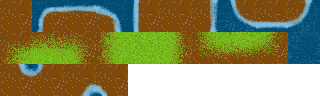
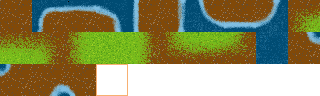
Collision tile map

diff --git a/src/Game.cpp b/src/Game.cpp
@@ -12,20 +12,17 @@ int Game::height = 600;
 
 Manager enitityManager;
 
-auto &playerEntity(enitityManager.addEntity());
+Map map("assets/terrains.png", 32, 2);
 
 SDL_Renderer *Game::renderer = nullptr;
 SDL_Event Game::event;
 bool Game::isRunning = false;
 SDL_Rect Game::camera = {0, 0, Game::width, Game::height};
 
-std::vector<ColliderComponent *> Game::colliders;
-
-enum GroupLabel : std::size_t { Map, Player, Enemy, Collision };
-
-auto &tiles(enitityManager.getGroup(GroupLabel::Map));
-auto &players(enitityManager.getGroup(GroupLabel::Player));
-auto &enemies(enitityManager.getGroup(GroupLabel::Enemy));
+auto &playerEntity(enitityManager.addEntity());
+auto &tiles(enitityManager.getGroup(GroupLabel::MapGroup));
+auto &players(enitityManager.getGroup(GroupLabel::PlayerGroup));
+auto &colliders(enitityManager.getGroup(GroupLabel::CollisionGroup));
 
 const std::string terrainTilesFile("assets/terrains.png");
 
@@ -67,33 +64,45 @@ void Game::init(const char *title, int xpos, int ypos, int width, int height,
 
     // init game entities
 
-    Map::LoadMap("assets/lvl1_25x25.map", 25, 25);
+    map.LoadMap("assets/lvl2_25x25.map", 25, 25);
 
     playerEntity.addComponent<TransformComponent>(200, 200, 2);
     playerEntity.addComponent<SpriteComponent>("assets/player_animations.png",
                                                true);
     playerEntity.addComponent<KeyboardController>();
     playerEntity.addComponent<ColliderComponent>("player");
-    playerEntity.addGroup(GroupLabel::Player);
+    playerEntity.addGroup(GroupLabel::PlayerGroup);
+    playerEntity.addGroup(GroupLabel::CollisionGroup);
   }
 }
 
 void Game::update() {
+  auto prevPlayerPosition =
+      playerEntity.getComponent<TransformComponent>().position;
+
   enitityManager.refresh();
   enitityManager.update();
 
   auto &playerTransform = playerEntity.getComponent<TransformComponent>();
-  Vector2d pPos = playerTransform.position;
+  auto &playerCollider = playerEntity.getComponent<ColliderComponent>();
 
+  SDL_Rect tmpRect;
+  for (auto &entity : colliders) {
+    auto collider = entity->getComponent<ColliderComponent>();
+    if (collider.tag != playerCollider.tag &&
+        Collision::AABB(playerCollider, collider)) {
+      playerTransform.position = prevPlayerPosition;
+    }
+  }
+
+  Vector2d pPos = playerTransform.position;
   camera.x = pPos.x - camera.w / 2 + playerTransform.scaledWidth() / 2;
   camera.y = pPos.y - camera.h / 2 + playerTransform.scaledHeight() / 2;
 
   if (camera.x < 0) camera.x = 0;
   if (camera.y < 0) camera.y = 0;
-
-  if (camera.x > (Map::width - camera.w)) camera.x = Map::width - camera.w;
-  if (camera.y > (Map::height - camera.h)) camera.y = Map::height - camera.h;
-
+  if (camera.x > (map.width - camera.w)) camera.x = map.width - camera.w;
+  if (camera.y > (map.height - camera.h)) camera.y = map.height - camera.h;
 }
 
 void Game::handleEvents() { SDL_PollEvent(&event); }
@@ -106,7 +115,7 @@ void Game::render() {
 
   for (auto &tile : tiles) tile->draw();
   for (auto &player : players) player->draw();
-  for (auto &enemy : enemies) enemy->draw();
+  for (auto &collider : colliders) collider->draw();
 
   /// ------
   SDL_RenderPresent(renderer);
@@ -118,12 +127,4 @@ void Game::clean() {
   SDL_Quit();
 
   std::cout << "Game cleaned succesfully." << std::endl;
-}
-
-void Game::AddTile(int srcX, int srcY, int xpos, int ypos, int srcW, int srcH,
-                   int destW, int destH) {
-  auto &tile(enitityManager.addEntity());
-  tile.addComponent<TileComponent>(srcX, srcY, xpos, ypos, srcW, srcH, destW,
-                                   destH, terrainTilesFile);
-  tile.addGroup(GroupLabel::Map);
 }

diff --git a/src/Map.cpp b/src/Map.cpp
@@ -3,46 +3,71 @@
 #include <fstream>
 #include <iostream>
 
+#include "ECS/Components.h"
+#include "ECS/ESC.h"
 #include "game/Game.h"
 
-int Map::width = 0;
-int Map::height = 0;
+extern Manager enitityManager;
 
-constexpr int TILE_SRC_SIZE = 32;
-constexpr int TILE_DEST_SIZE = 128;
-
-Map::Map() {}
+Map::Map(std::string mapFile, int tSize, int tScale)
+    : mapFilePath(mapFile), tileScale(tScale), tileSize(tSize) {}
 
 Map::~Map() {}
 
 void Map::LoadMap(std::string path, int sizeX, int sizeY) {
-  char tile;
+  char c;
   std::fstream mapFile;
   mapFile.open(path);
 
   int srcX, srcY;
 
-  Map::width = sizeX * TILE_DEST_SIZE;
-  Map::height = sizeY * TILE_DEST_SIZE;
+  width = sizeX * tileSize * tileScale;
+  height = sizeY * tileSize * tileScale;
 
   for (int y = 0; y < sizeY; y++) {
     for (int x = 0; x < sizeX; x++) {
-      mapFile.get(tile);
-      srcY = srcX = atoi(&tile) * TILE_SRC_SIZE;
+      mapFile.get(c);
+      srcY = srcX = atoi(&c) * tileSize;
 
-      mapFile.get(tile);
-      if (tile != ',') {
-        srcX = atoi(&tile) * TILE_SRC_SIZE;
+      mapFile.get(c);
+      if (c != ',') {
+        srcX = atoi(&c) * tileSize;
         mapFile.ignore();
       } else {
         srcY = 0;
       }
-      Game::AddTile(srcX, srcY, x * TILE_DEST_SIZE, y * TILE_DEST_SIZE,
-                    TILE_SRC_SIZE, TILE_SRC_SIZE, TILE_DEST_SIZE,
-                    TILE_DEST_SIZE);  // need to link tile size and position
+      AddTile(srcX, srcY, x * tileSize * tileScale, y * tileSize * tileScale,
+              tileSize, tileScale);  // need to link tile size and position
     }
     mapFile.ignore();
   }
 
+  mapFile.ignore();
+
+  for (int y = 0; y < sizeY; y++) {
+    for (int x = 0; x < sizeX; x++) {
+      mapFile.get(c);
+      // std::cout << c << ' ' << std::endl;
+      if (c == '1') {
+        auto& collider(enitityManager.addEntity());
+        collider.addComponent<ColliderComponent>(
+            "terrain", x * tileSize * tileScale, y * tileSize * tileScale,
+            tileSize * tileScale);
+        collider.addGroup(GroupLabel::CollisionGroup);
+      }
+      mapFile.ignore();
+    }
+    // std::cout << std::endl;
+    mapFile.ignore();
+  }
+
   mapFile.close();
+}
+
+void Map::AddTile(int srcX, int srcY, int xpos, int ypos, int tSize,
+                  int tScale) {
+  auto& tile(enitityManager.addEntity());
+  tile.addComponent<TileComponent>(srcX, srcY, xpos, ypos, tSize, tScale,
+                                   mapFilePath);
+  tile.addGroup(GroupLabel::MapGroup);
 }

diff --git a/include/ECS/ColliderComponent.h b/include/ECS/ColliderComponent.h
@@ -5,15 +5,22 @@
 
 #include "ECS/Components.h"
 #include "SDL2/SDL.h"
+#include "game/TextureManager.h"
 
 class ColliderComponent : public Component {
  public:
   SDL_Rect collider;
   std::string tag;
 
+  SDL_Texture *texture;
+  SDL_Rect src, dest;
+
   TransformComponent *transform;
 
   ColliderComponent(std::string tag) : tag(tag) {}
+  ColliderComponent(std::string tag, int xpos, int ypos, int size) : tag(tag) {
+    collider = {xpos, ypos, size, size};
+  }
 
   void init() override {
     if (!entity->hasComponents<TransformComponent>()) {
@@ -21,17 +28,25 @@ class ColliderComponent : public Component {
     }
     transform = &entity->getComponent<TransformComponent>();
 
-    Game::colliders.push_back(this);
+    texture = TextureManager::LoadTexture("assets/collider.png");
+
+    src = {0, 0, 32, 32};
+    dest = {collider.x, collider.y, collider.w, collider.h};
   }
 
   void update() override {
-    collider.x = static_cast<int>(transform->position.x);
-    collider.y = static_cast<int>(transform->position.y);
-    collider.w = transform->scaledWidth();
-    collider.h = transform->scaledHeight();
+    if (tag != "terrain") {
+      collider.x = static_cast<int>(transform->position.x);
+      collider.y = static_cast<int>(transform->position.y);
+      collider.w = transform->scaledWidth();
+      collider.h = transform->scaledHeight();
+    }
+
+    dest.x = collider.x - Game::camera.x;
+    dest.y = collider.y - Game::camera.y;
   }
 
-  void draw() override {}
+  void draw() override { TextureManager::Draw(texture, src, dest); }
 };
 
 #endif /* AC10B449_5865_4375_B32B_EB8F9952DBB2 */

diff --git a/include/ECS/TileComponent.h b/include/ECS/TileComponent.h
@@ -17,22 +17,15 @@ class TileComponent : public Component {
 
   ~TileComponent() { SDL_DestroyTexture(texture); };
 
-  TileComponent(int srcX, int srcY, int xpos, int ypos, int sourceW,
-                int sourceH, int destW, int destH, std::string path) {
+  TileComponent(int srcX, int srcY, int xpos, int ypos, int tSize, int tScale,
+                std::string path) {
     texture = TextureManager::LoadTexture(path.c_str());
 
     position.x = xpos;
     position.y = ypos;
 
-    src.x = srcX;
-    src.y = srcY;
-    src.w = sourceW;
-    src.h = sourceH;
-
-    dest.x = xpos;
-    dest.y = ypos;
-    dest.w = destW;
-    dest.h = destH;
+    src = {srcX, srcY, tSize, tSize};
+    dest = {xpos, ypos, tSize * tScale, tSize * tScale};
   }
 
   void init() override{};

diff --git a/include/game/Game.h b/include/game/Game.h
@@ -11,6 +11,8 @@
 
 class ColliderComponent;
 
+enum GroupLabel : std::size_t { MapGroup, PlayerGroup, EnemyGroup, CollisionGroup };
+
 class Game {
  public:
   Game();
@@ -25,14 +27,10 @@ class Game {
 
   bool running() { return isRunning; };
 
-  static void AddTile(int srcX, int srcY, int xpos, int ypos, int srcW,
-                      int srcH, int destW, int destH);
-
   static int width;
   static int height;
   static SDL_Renderer *renderer;
   static SDL_Event event;
-  static std::vector<ColliderComponent *> colliders;
   static bool isRunning;
   static SDL_Rect camera;
 

diff --git a/include/game/Map.h b/include/game/Map.h
@@ -6,15 +6,20 @@
 
 class Map {
  public:
-  Map();
+  Map(std::string mapFile, int tSize, int tScale);
   ~Map();
 
+  int width;
+  int height;
 
-
-  static int width;
-  static int height;
   // methods
-  static void LoadMap(std::string path, int sizeX, int sizeY);
+  void LoadMap(std::string path, int sizeX, int sizeY);
+  void AddTile(int srcX, int srcY, int xpos, int ypos, int tSize, int tScale);
+
+ private:
+  std::string mapFilePath;
+  int tileSize;
+  int tileScale;
 };
 
 #endif /* B71054D1_F895_4119_B74E_78E513C4B66D */

diff --git a/src/Collision.cpp b/src/Collision.cpp
@@ -11,7 +11,7 @@ bool Collision::AABBcollision(const SDL_Rect& rectA, const SDL_Rect& rectB) {
 bool Collision::AABB(const ColliderComponent& colliderA,
                      const ColliderComponent& colliderB) {
   if (AABBcollision(colliderA.collider, colliderB.collider)) {
-    // std::cout << colliderA.tag << " hit " << colliderB.tag << std::endl;
+    std::cout << colliderA.tag << " hit " << colliderB.tag << std::endl;
     return true;
   }
   return false;
